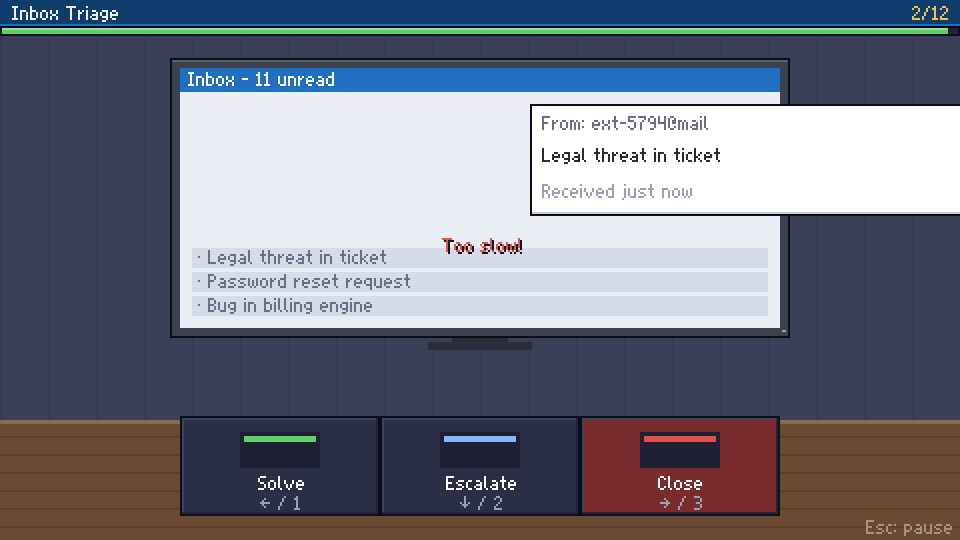
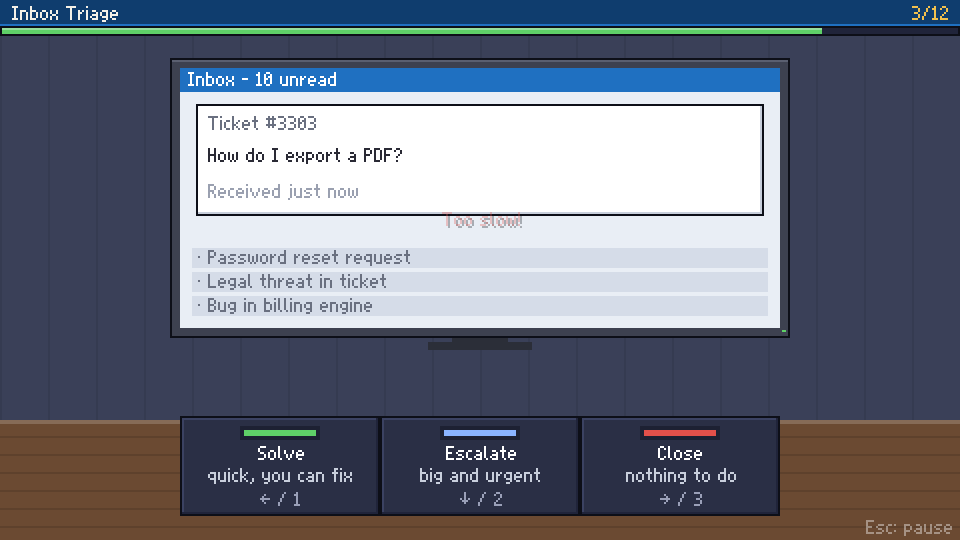
Inbox Triage: 50% more time per item (6.3 s easy, 2.55 s hard), each bin shows its rule under its label (needs an answer / FYI, no action / junk and scams, per department), the help explains left = needs you, middle = kept for later, right = junk; mail shows its real sender on the From line (spam fr
Claude-Session: https://claude.ai/code/session_01JGTPKxS9GQXYGcwkHC4nFn

diff --git a/src/minigames/inbox.js b/src/minigames/inbox.js
@@ -1,26 +1,34 @@
 // Inbox Triage: sort each incoming email into one of three bins before its timer runs out.
 import { W, H, C, rect, panel, drawText, backdrop, header, timerBar, monitor, Floaters, Shake, byDiff, finish } from '../engine/mgkit.js';
 
-// [reply, archive, spam] item pools; department sets override the bin labels.
-const POOLS = {
+// [needs you, keep, junk] item pools; department sets override the bin labels. `hints` is each bin's rule, shown
+// under its label. `from` per bin: null = the item names its sender ("Boss: ..."), a list = senders to pick from;
+// a pool without `from` labels its cards `tag` + a number. The C64 port reads `bins` and `items` from here.
+export const POOLS = {
   default: {
     bins: ['Reply', 'Archive', 'Spam'],
+    hints: ['needs an answer', 'FYI, no action', 'junk and scams'],
+    from: [null, null, ['prizes@w1nner.biz', 'prince@royal-fundz.biz', 'deals@cheap-watchez.biz', 'alert@acc0unt-safe.co']],
     items: [
       ['Boss: Can you send the Q3 deck?', 'Client: Quick question on invoice', 'HR: Please confirm your start date', 'Team: Who can cover Friday?', 'Boss: Need this by EOD, thoughts?', 'Client: Is the demo still on?', 'IT: Did the reset work for you?', 'Mentor: Lunch tomorrow?'],
-      ['FYI: Parking lot repaint', 'Weekly digest #212', 'Newsletter: Synergy Monthly', 'Reminder: Casual Friday', 'Cafeteria menu update', 'Policy v14.2 (no action needed)', 'FYI: Elevator maintenance', 'Org announcement: new VP'],
+      ['Facilities: Parking lot repaint', 'Digest: Your weekly digest #212', 'Newsletter: Synergy Monthly', 'HR: Reminder, Casual Friday', 'Cafeteria: New menu this week', 'Legal: Policy v14.2, no action', 'Facilities: Elevator maintenance', 'Comms: Meet our new VP'],
       ['YOU WON A FREE CRUISE!!!', 'Prince needs your bank details', 'Hot stock tip, act now', 'Your account will be closed!!', 'Cheap watches 90% off', 'Click here for free money', 'Re: Re: Re: invoice.exe', 'Miracle synergy pills'],
     ],
   },
   lobby: {
     bins: ['Deliver', 'Hold', 'Return'],
+    hints: ['ours, deliver it', 'ours, not yet', 'not for us'],
+    tag: 'Mailroom item #',
     items: [
       ['Parcel: Floor 12, Sales', 'Letter: CEO office', 'Box: IT, fragile', 'Envelope: HR, urgent'],
-      ['Package: name smudged', 'Box: "do not open till Xmas"', 'Parcel: recipient on vacation', 'Crate: awaiting signature'],
-      ['Wrong address: Synergy Bakery', 'Unpaid postage', 'Addressed to "Occupant" in 1987', 'Leaking mystery box'],
+      ['Package: name smudged', 'Box: "deliver after Jan 1"', 'Parcel: recipient on vacation', 'Crate: awaiting signature'],
+      ['Wrong address: Synergy Bakery', 'Unpaid postage', 'Addressed to "Occupant" in 1987', 'Leaking box, no address'],
     ],
   },
   support: {
     bins: ['Solve', 'Escalate', 'Close'],
+    hints: ['quick, you can fix', 'big and urgent', 'nothing to do'],
+    tag: 'Ticket #',
     items: [
       ['Password reset request', 'How do I export a PDF?', 'Where is my receipt?', 'Login loop on mobile'],
       ['Data loss, angry CEO', 'Outage across Europe', 'Legal threat in ticket', 'Bug in billing engine'],
@@ -29,6 +37,8 @@ const POOLS = {
   },
   legalhr: {
     bins: ['Keep', 'File', 'Shred'],
+    hints: ['binding, in force', 'old, for records', 'worthless'],
+    tag: 'Document #',
     items: [
       ['Signed contract (original)', 'Active NDA', 'Patent filing', 'Employee offer letter'],
       ['Old meeting minutes', 'Expired policy 2019', 'Training certificates', 'Archived job posting'],
@@ -37,6 +47,8 @@ const POOLS = {
   },
   it: {
     bins: ['Fix now', 'Backlog', 'Ignore'],
+    hints: ['broken, on fire', 'can wait', 'not a problem'],
+    tag: 'Alert #',
     items: [
       ['PROD DOWN: checkout 500s', 'Security: leaked API key', 'DB disk at 99%', 'SSL cert expires today'],
       ['Feature: dark mode', 'Refactor legacy module', 'Button 2px off on IE6', 'Upgrade lib (non-urgent)'],
@@ -45,18 +57,29 @@ const POOLS = {
   },
 };
 
+// The card's two lines for an item: who it is from and what it says. "Boss: Can you..." splits into both.
+export function card(pool, cat, text, rng) {
+  const senders = pool.from?.[cat];
+  if (pool.from && senders === null) {
+    const k = text.indexOf(': ');
+    return { from: 'From: ' + text.slice(0, k), text: text.slice(k + 2) };
+  }
+  if (senders) return { from: 'From: ' + rng.pick(senders), text };
+  return { from: (pool.tag || 'Item #') + rng.int(1000, 9999), text };
+}
 export default {
   id: 'inbox',
   name: 'Inbox Triage',
-  help: 'Sort each item into the right bin. Keys: ← ↓ → (or 1 2 3), or click a bin.',
+  help: 'Sort each item into the right bin: left needs you, middle is kept for later, right is junk. Each bin shows its rule. Keys: ← ↓ → (or 1 2 3), or click a bin.',
   create({ difficulty: d, rng, theme, sfx = () => {} }) {
     const pool = POOLS[theme?.dept] || POOLS.default;
     const count = Math.round(byDiff(d, 8, 16));
-    const perItem = byDiff(d, 4.2, 1.7);
+    const perItem = byDiff(d, 6.3, 2.55); // seconds per item
     const queue = [];
     for (let i = 0; i < count; i++) {
       const cat = rng.int(0, 2);
-      queue.push({ cat, text: rng.pick(pool.items[cat]), from: rng.int(1000, 9999) });
+      const line = rng.pick(pool.items[cat]);
+      queue.push({ cat, line, ...card(pool, cat, line, rng) });
     }
     const fl = new Floaters();
     const shake = new Shake();
@@ -116,13 +139,13 @@ export default {
         // Upcoming list.
         for (let k = 1; k <= 3 && i + k < queue.length; k++) {
           rect(g, s.x + 6, s.y + 78 + k * 12, s.w - 12, 10, '#d5dce8');
-          drawText(g, '· ' + queue[i + k].text.slice(0, 44), s.x + 9, s.y + 79 + k * 12, { color: '#6a7080' });
+          drawText(g, '· ' + queue[i + k].line.slice(0, 44), s.x + 9, s.y + 79 + k * 12, { color: '#6a7080' });
         }
         if (i < queue.length) {
           const item = queue[i];
           const ox = Math.round(slide * 200);
           panel(g, s.x + 8 + ox, s.y + 18, s.w - 16, 56, { fill: '#ffffff', light: '#ffffff', dark: '#c8cfdc' });
-          drawText(g, `From: ext-${item.from}@mail`, s.x + 14 + ox, s.y + 24, { color: '#6a7080' });
+          drawText(g, item.from, s.x + 14 + ox, s.y + 24, { color: '#6a7080' });
           drawText(g, item.text, s.x + 14 + ox, s.y + 40, { color: C.ink });
           drawText(g, 'Received just now', s.x + 14 + ox, s.y + 58, { color: '#9aa0b0' });
         }
@@ -131,10 +154,11 @@ export default {
           let fill = C.panel;
           if (flash && flash.t > 0 && flash.b === b) fill = flash.ok ? '#2f6b3a' : '#7a2b2b';
           panel(g, x, binY, 100, 50, { fill });
-          rect(g, x + 30, binY + 8, 40, 18, '#1d2133');
-          rect(g, x + 32, binY + 10, 36, 3, ['#5fd068', '#8ab4ff', '#e2504a'][b]);
-          drawText(g, pool.bins[b], x + 50, binY + 30, { align: 'center' });
-          drawText(g, `${keys[b]} / ${b + 1}`, x + 50, binY + 40, { align: 'center', color: C.dim });
+          rect(g, x + 30, binY + 5, 40, 7, '#1d2133');
+          rect(g, x + 32, binY + 7, 36, 3, ['#5fd068', '#8ab4ff', '#e2504a'][b]);
+          drawText(g, pool.bins[b], x + 50, binY + 15, { align: 'center' });
+          drawText(g, pool.hints[b], x + 50, binY + 26, { align: 'center', color: '#c8cfdc' });
+          drawText(g, `${keys[b]} / ${b + 1}`, x + 50, binY + 38, { align: 'center', color: C.dim });
         });
         fl.render(g);
         g.restore();

diff --git a/tests/inbox.test.js b/tests/inbox.test.js
@@ -1,0 +1,28 @@
+import { test, expect } from 'bun:test';
+import { POOLS, card } from '../src/minigames/inbox.js';
+import { measureText } from '../src/engine/font.js';
+
+const rng = { pick: (a) => a[0], int: (a) => a };
+
+test('every bin shows a rule that fits inside it', () => {
+  for (const [dept, pool] of Object.entries(POOLS)) {
+    expect(pool.hints, dept).toHaveLength(3);
+    for (const h of pool.hints) expect(measureText(h), `${dept}: ${h}`).toBeLessThanOrEqual(94);
+  }
+});
+
+test('a mail that names its sender shows it on the From line', () => {
+  const d = POOLS.default;
+  expect(card(d, 0, 'Boss: Can you send the Q3 deck?', rng)).toEqual({ from: 'From: Boss', text: 'Can you send the Q3 deck?' });
+  expect(card(d, 1, 'Comms: Meet our new VP', rng).from).toBe('From: Comms');
+  // Spam comes from a dodgy address, even when it looks like a reply.
+  expect(card(d, 2, 'Re: Re: Re: invoice.exe', rng)).toEqual({ from: 'From: ' + d.from[2][0], text: 'Re: Re: Re: invoice.exe' });
+});
+
+test('every reply and archive mail names its sender', () => {
+  for (const cat of [0, 1]) for (const t of POOLS.default.items[cat]) expect(t, t).toMatch(/^[A-Z][A-Za-z]+: ./);
+});
+
+test('other departments label their cards with a number', () => {
+  expect(card(POOLS.support, 1, 'Outage across Europe', rng)).toEqual({ from: 'Ticket #1000', text: 'Outage across Europe' });
+});

diff --git a/public/how-to-play/index.html b/public/how-to-play/index.html
@@ -1116,7 +1116,7 @@
         <img src="img/mg-inbox.png" width="960" height="540" loading="lazy" alt="Inbox Triage mini-game screenshot" />
         <div class="game-body">
           <h4>Inbox Triage <span class="tag">1 coffee</span></h4>
-          <p>Mail, tickets and requests drop into your inbox one after another. Sort each one into the right of three bins before it slips past (the bins follow the department, e.g. Solve / Escalate / Close in Customer Support).</p>
+          <p>Mail, tickets and requests drop into your inbox one after another. Sort each one into the right of three bins before it slips past: left is for what needs you, the middle for what is kept for later, right for junk. The bins follow the department (Reply / Archive / Spam for mail, Solve / Escalate / Close in Customer Support) and each one shows its rule, e.g. "needs an answer" under Reply. A mail's sender is a good clue.</p>
           <p class="controls"><b>Controls:</b> Sort each item into the right bin. Keys: ← ↓ → (or 1 2 3), or click a bin.</p>
         </div>
       </article>
